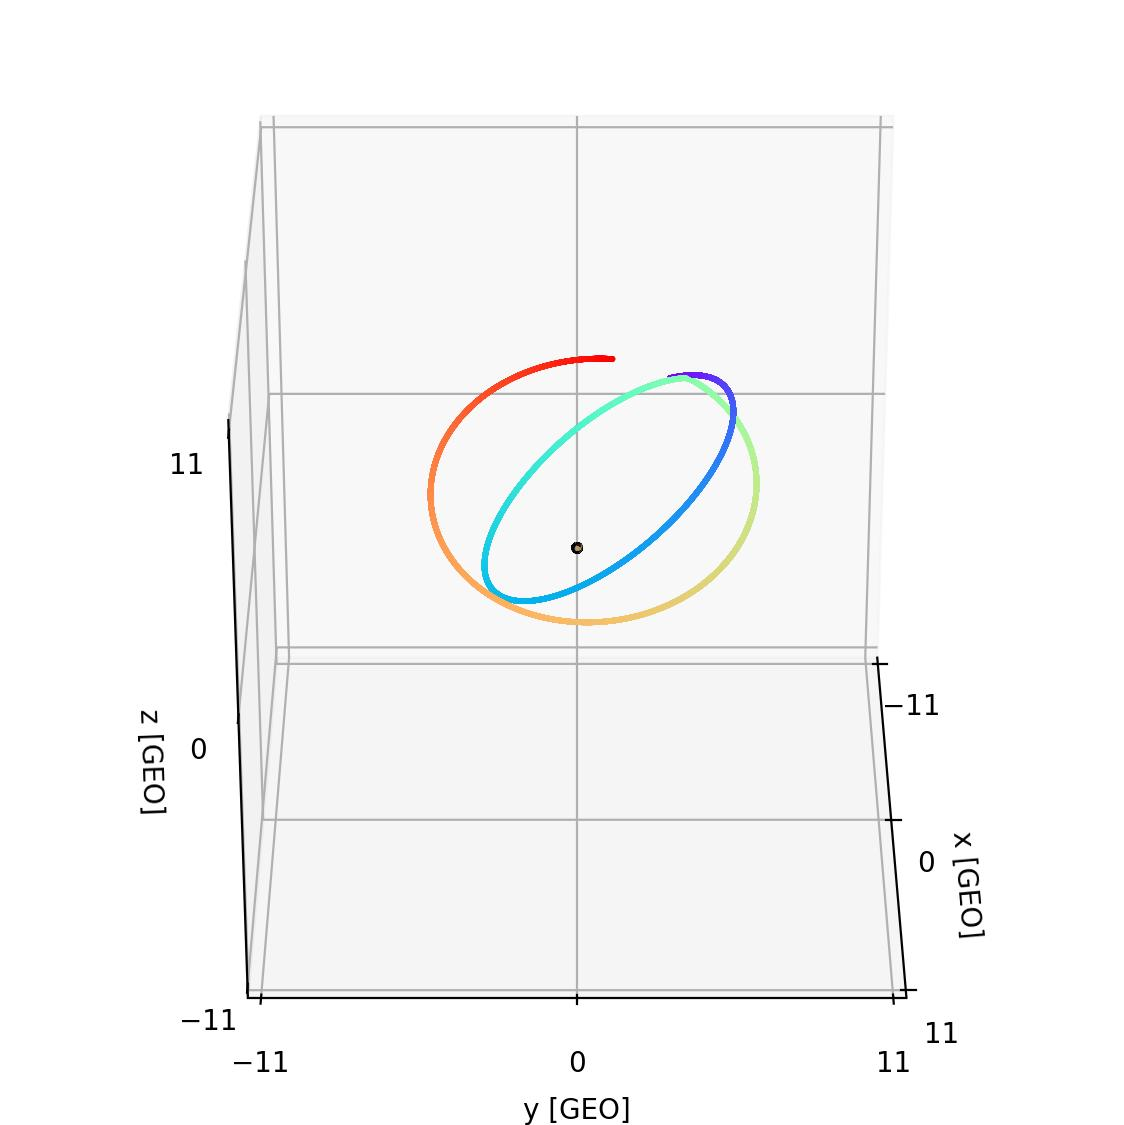
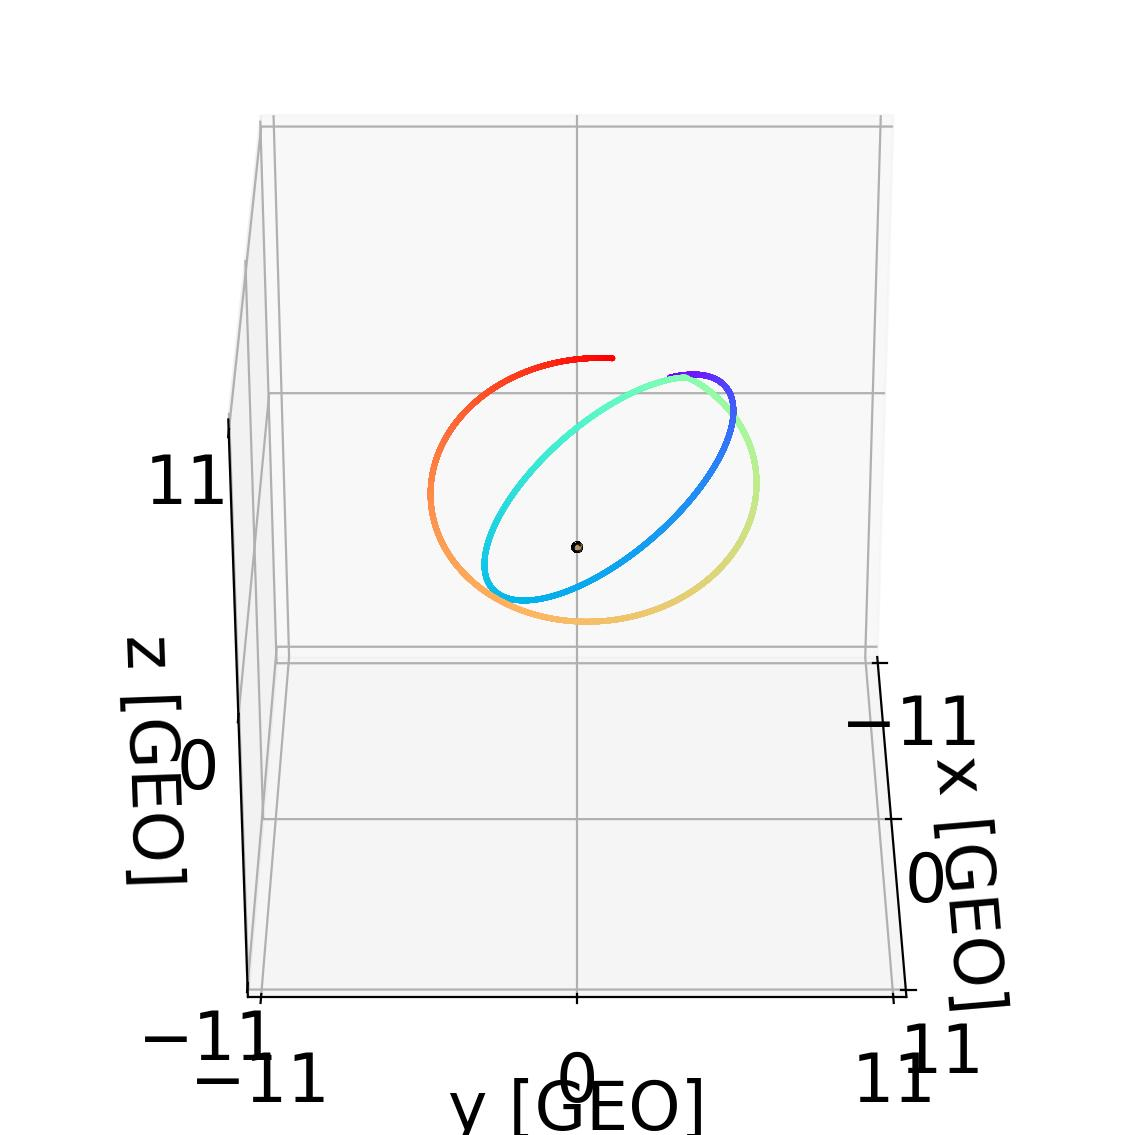
changed default fontsize

diff --git a/yeager_utils/plots/globe_plot.py b/yeager_utils/plots/globe_plot.py
@@ -11,7 +11,7 @@ from ..constants import RGEO, EARTH_RADIUS
 
 def globe_plot(r: np.ndarray, t: np.ndarray, limits: Optional[float] = False, title: str = '',
                c='black', figsize: Tuple[int, int] = (7, 8), save_path: Optional[str] = False,
-               el: int = 30, az: int = 0, scale: float = 1, fontsize=24) -> Tuple[plt.Figure, plt.Axes]:
+               el: int = 30, az: int = 0, scale: float = 1, fontsize=18) -> Tuple[plt.Figure, plt.Axes]:
     """
     Generate a 3D globe plot showing the position of points in Earth-centered
     coordinates. Optionally save the plot to a file.
